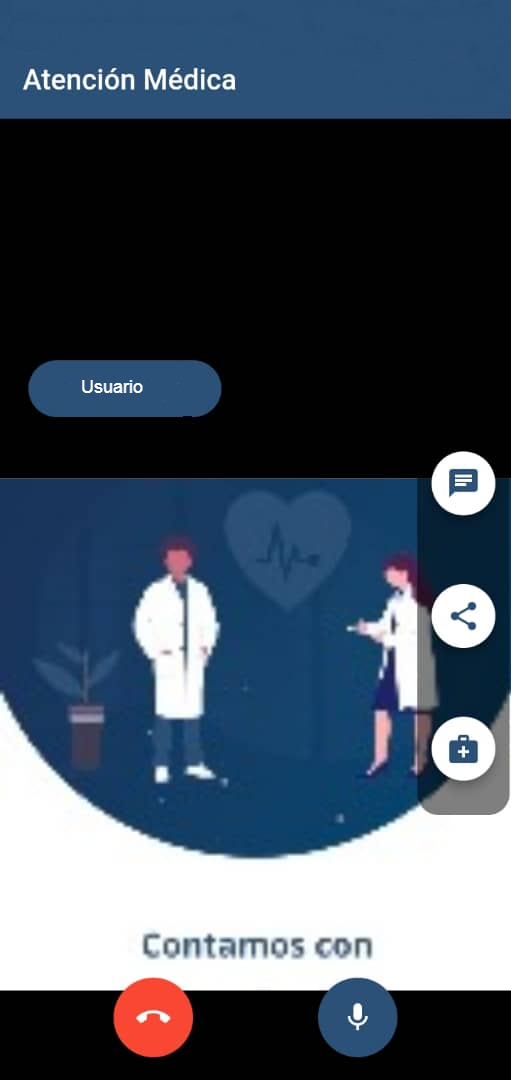
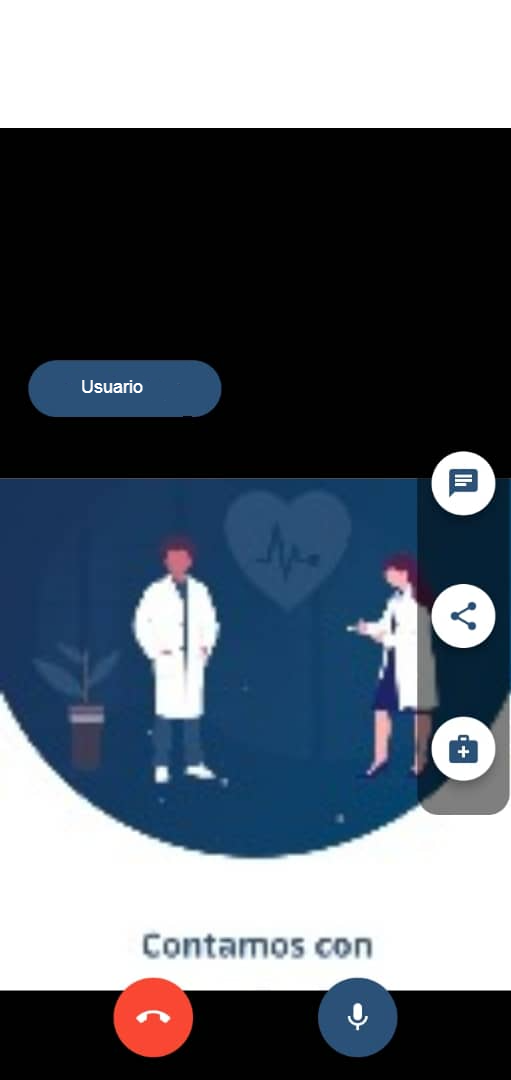
.

Changed region(s): [[0.0, 0.0, 1.0, 0.1222]]

diff --git a/lib/medical_page.dart b/lib/medical_page.dart
@@ -9,7 +9,11 @@ class MedicalPage extends StatelessWidget {
       appBar: AppBar(
         title: const Text('Atencion Medica'),
       ),
-      body: Image.asset('assets/atencion_medica.png'),
+      body: Image.asset(
+        'assets/atencion_medica.png',
+        width: double.infinity,
+        height: double.infinity,
+      ),
     );
   }
 
